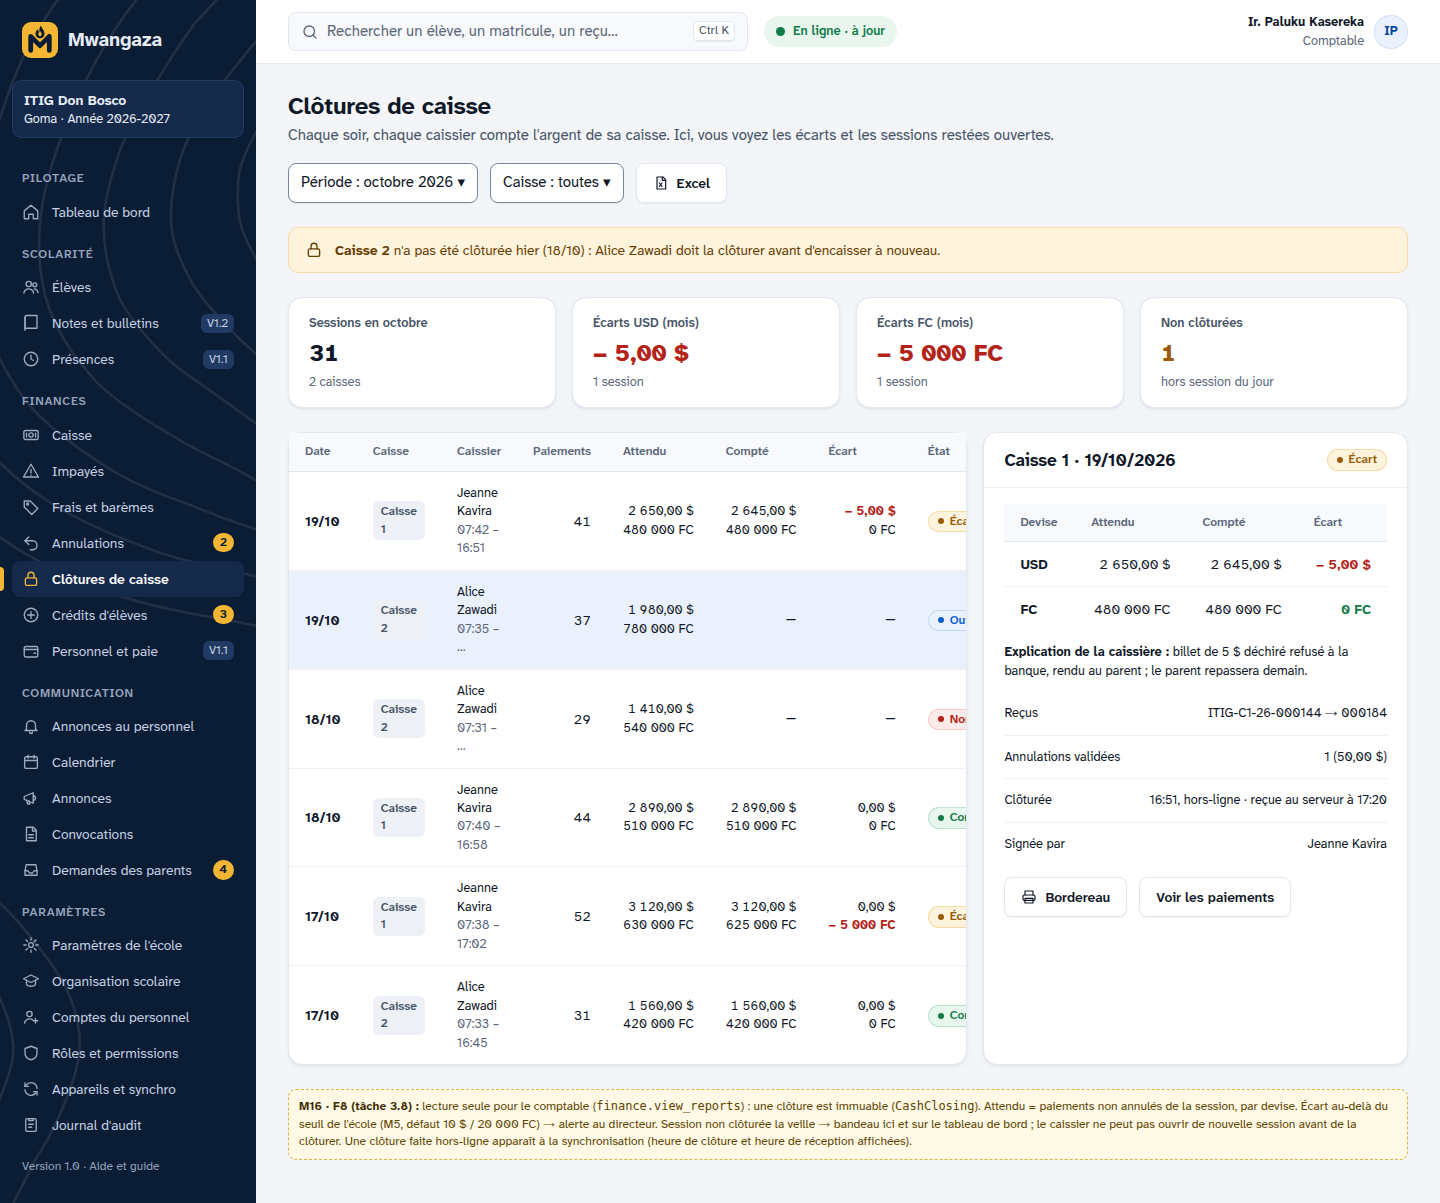
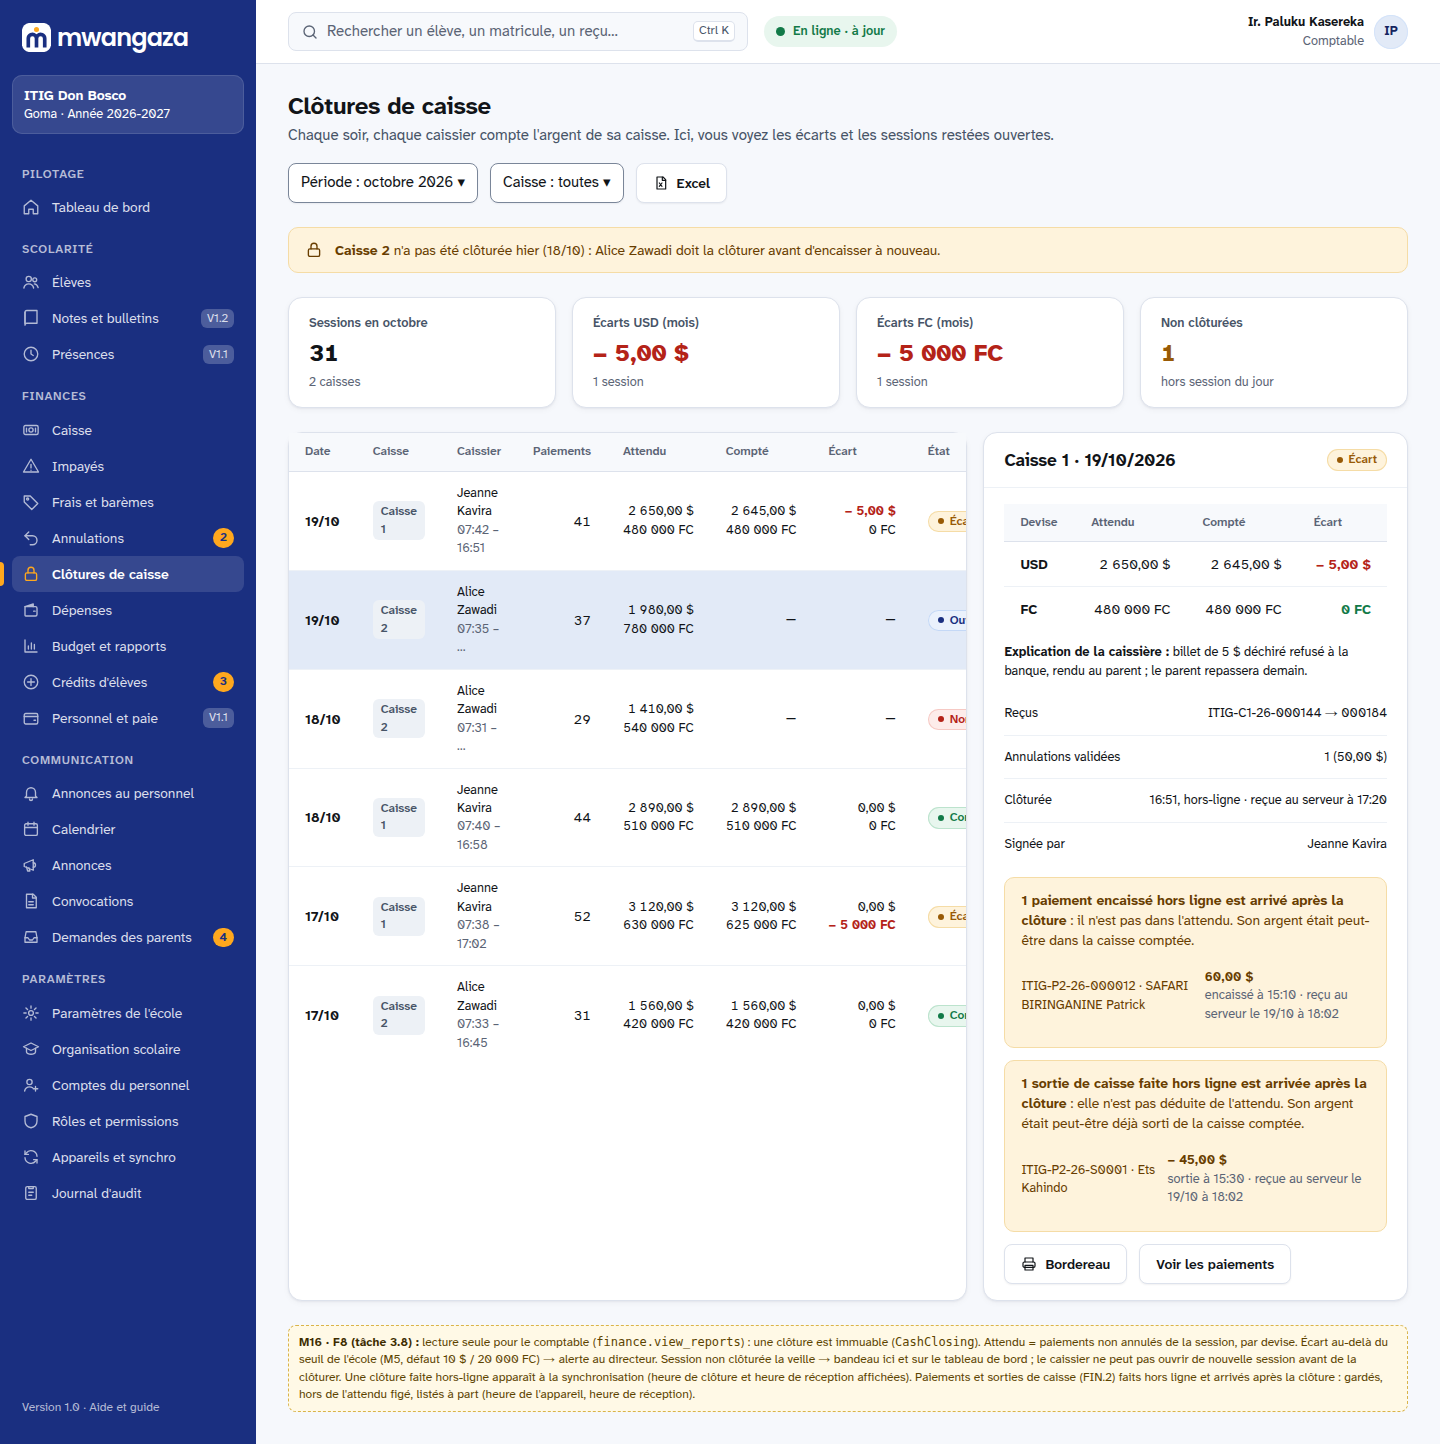
test(finance): parcours réseau coupé avec sortie de caisse ; aide, maquette des clôtures et documents (FIN.2 ②b3)
- Playwright : sortie de 7,50 $ hors ligne après un paiement de 10 $, une seule au serveur, bon de l'appareil, attendu 2,50 $
- maquette clotures-caisse : paiements et sorties arrivés après la clôture
- aide « Sortie de caisse » fr/en, 04 (CashOut hors ligne, types d'opération), suivi

diff --git a/maquettes/gestion/clotures-caisse.html b/maquettes/gestion/clotures-caisse.html
@@ -27,8 +27,10 @@
   <table class="tbl"><tr><th>Devise</th><th class="num">Attendu</th><th class="num">Compté</th><th class="num">Écart</th></tr><tr><td class="b">USD</td><td class="num">2 650,00 $</td><td class="num">2 645,00 $</td><td class="num b" style="color:var(--due)">− 5,00 $</td></tr><tr><td class="b">FC</td><td class="num">480 000 FC</td><td class="num">480 000 FC</td><td class="num b" style="color:var(--ok)">0 FC</td></tr></table>
   <div class="small"><b>Explication de la caissière :</b> billet de 5 $ déchiré refusé à la banque, rendu au parent ; le parent repassera demain.</div>
   <div class="list small"><div><span>Reçus</span><span>ITIG-C1-26-000144 → 000184</span></div><div><span>Annulations validées</span><span>1 (50,00 $)</span></div><div><span>Clôturée</span><span>16:51, hors-ligne · reçue au serveur à 17:20</span></div><div><span>Signée par</span><span>Jeanne Kavira</span></div></div>
+  <div class="banner warn small"><span><b>1 paiement encaissé hors ligne est arrivé après la clôture</b> : il n'est pas dans l'attendu. Son argent était peut-être dans la caisse comptée.<div class="list small" style="margin-top:6px"><div><span>ITIG-P2-26-000012 · SAFARI BIRINGANINE Patrick</span><span><b>60,00 $</b><br><span class="muted">encaissé à 15:10 · reçu au serveur le 19/10 à 18:02</span></span></div></div></span></div>
+  <div class="banner warn small"><span><b>1 sortie de caisse faite hors ligne est arrivée après la clôture</b> : elle n'est pas déduite de l'attendu. Son argent était peut-être déjà sorti de la caisse comptée.<div class="list small" style="margin-top:6px"><div><span>ITIG-P2-26-S0001 · Ets Kahindo</span><span><b>− 45,00 $</b><br><span class="muted">sortie à 15:30 · reçue au serveur le 19/10 à 18:02</span></span></div></div></span></div>
   <div class="row"><a class="btn" href="#"><svg class="ic" width="16" height="16" viewBox="0 0 24 24" fill="none" stroke="currentColor" stroke-width="1.8" stroke-linecap="round" stroke-linejoin="round"><path d="M6 9V3h12v6"/><rect x="3" y="9" width="18" height="8" rx="2"/><path d="M6 14h12v7H6z"/></svg>Bordereau</a><a class="btn" href="caisse-accueil.html">Voir les paiements</a></div>
  </div></div>
 </div>
-<div class="note"><b>M16 · F8 (tâche 3.8) :</b> lecture seule pour le comptable (<code>finance.view_reports</code>) : une clôture est immuable (<code>CashClosing</code>). Attendu = paiements non annulés de la session, par devise. Écart au-delà du seuil de l'école (M5, défaut 10 $ / 20 000 FC) → alerte au directeur. Session non clôturée la veille → bandeau ici et sur le tableau de bord ; le caissier ne peut pas ouvrir de nouvelle session avant de la clôturer. Une clôture faite hors-ligne apparaît à la synchronisation (heure de clôture et heure de réception affichées).</div>
+<div class="note"><b>M16 · F8 (tâche 3.8) :</b> lecture seule pour le comptable (<code>finance.view_reports</code>) : une clôture est immuable (<code>CashClosing</code>). Attendu = paiements non annulés de la session, par devise. Écart au-delà du seuil de l'école (M5, défaut 10 $ / 20 000 FC) → alerte au directeur. Session non clôturée la veille → bandeau ici et sur le tableau de bord ; le caissier ne peut pas ouvrir de nouvelle session avant de la clôturer. Une clôture faite hors-ligne apparaît à la synchronisation (heure de clôture et heure de réception affichées). Paiements et sorties de caisse (FIN.2) faits hors ligne et arrivés après la clôture : gardés, hors de l'attendu figé, listés à part (heure de l'appareil, heure de réception).</div>
 </main></div></div></body></html>

diff --git a/frontend/e2e/hors-ligne.spec.ts b/frontend/e2e/hors-ligne.spec.ts
@@ -1,6 +1,13 @@
 import { expect, test } from "@playwright/test";
 
-import { allowCodeAgain, closeCashSessions, manage, unpaidStudent } from "./django";
+import {
+  allowCodeAgain,
+  cashExpense,
+  cashOutOf,
+  closeCashSessions,
+  manage,
+  unpaidStudent,
+} from "./django";
 import { enterCode, enterPassword, ITIG, skipGuide } from "./helpers";
 
 /** Inscriptions de l'année en cours de l'ITIG : ce que l'instantané descend sur l'appareil. */
@@ -55,12 +62,13 @@ test("appareil mémorisé : l'école descend sur l'appareil, puis hors ligne et 
   await expect(indicator).toHaveText("En ligne · à jour");
 });
 
-test("démarrage sans réseau : code PIN, puis la caisse encaisse sur l'appareil (3.7.1)", async ({
+test("démarrage sans réseau : code PIN, puis la caisse encaisse et paie une dépense sur l'appareil (3.7.1, FIN.2)", async ({
   page,
   context,
 }) => {
   closeCashSessions();
   const student = unpaidStudent();
+  const expense = cashExpense();
   await page.addInitScript(() => {
     window.print = () => undefined;
     navigator.storage.persist = async () => true;
@@ -80,8 +88,13 @@ test("démarrage sans réseau : code PIN, puis la caisse encaisse sur l'appareil
   await page.getByLabel("Confirmer le code PIN").fill("2580");
   await page.getByRole("button", { name: "Enregistrer" }).click();
   await expect(page.getByText("Code PIN enregistré sur cet appareil.")).toBeVisible();
+  // La caisse de l'appareil garde les dépenses à payer dès son ouverture.
+  const payable = page.waitForResponse((response) =>
+    response.url().includes("/api/cash-outs/payable/"),
+  );
   await page.goto(`${ITIG}cash`);
   await expect(page.getByRole("heading", { name: "Ouvrir la caisse" })).toBeVisible();
+  await payable;
 
   // Le serveur ne répond plus (en production, le service worker sert l'application ; ici, Vite).
   // Seulement `/api/…` : les modules de Vite (`packages/api/…`) doivent encore arriver.
@@ -107,9 +120,23 @@ test("démarrage sans réseau : code PIN, puis la caisse encaisse sur l'appareil
   ).toBeVisible();
   await expect(indicator).toHaveText("Hors ligne · 2 en attente");
 
+  // Sortie de caisse sans réseau : la dépense gardée, le bon numéroté par l'appareil.
+  await page.getByRole("link", { name: "Sortie de caisse" }).click();
+  await page.getByLabel("Dépense à payer").selectOption(expense);
+  await page.getByRole("button", { name: "Sortir et imprimer le bon" }).click();
+  await expect(
+    page.getByText(/^Sortie ITIG-DEMO-P\d+-26-S0001 enregistrée : 7,50\s\$\./),
+  ).toBeVisible();
+  await expect(indicator).toHaveText("Hors ligne · 3 en attente");
+  await page.getByRole("link", { name: "Retour à la caisse" }).click();
+
   // Retour du réseau : la session du serveur est toujours là, tout part.
   await page.unrouteAll();
   await context.setOffline(false);
   await expect(indicator).toHaveText("En ligne · à jour", { timeout: 30_000 });
   await expect(page.getByText(/Session ouverte à .* · 1 paiement$/)).toBeVisible();
+  // Une seule sortie, au bon de l'appareil ; la dépense est payée ; 10 $ reçus − 7,50 $ sortis.
+  const [count, number, status, expected] = cashOutOf(expense);
+  expect([count, status, expected]).toEqual(["1", "paid", "250"]);
+  expect(number).toMatch(/^ITIG-DEMO-P\d+-26-S0001$/);
 });

diff --git a/frontend/e2e/django.ts b/frontend/e2e/django.ts
@@ -62,3 +62,42 @@ from apps.schools.models import School
 with use_school(School.objects.get(code="itig-demo")):
     CashSession.objects.filter(closed_at__isnull=True).update(closed_at=timezone.now())`);
 }
+
+/** Une dépense de 7,50 $ à payer en espèces, validée d'office (sous le seuil) : son identifiant. */
+export function cashExpense(): string {
+  const output = manage(
+    "shell",
+    "-c",
+    `from datetime import date
+from apps.accounts.models import User
+from apps.core.tenancy import use_school
+from apps.finance import expenses
+from apps.finance.models import ExpenseCategory
+from apps.schools.models import School
+with use_school(School.objects.get(code="itig-demo")):
+    expense, _ = expenses.record_expense(actor=User.objects.get(phone="+243000001005"),
+        category=ExpenseCategory.objects.order_by("name").first(), beneficiary="Ets Kahindo",
+        reason="Cadenas du magasin", amount_minor=750, currency="USD",
+        spent_on=date.today(), account="cash")
+    print(expense.pk)`,
+  );
+  return output.trim().split("\n").at(-1)!;
+}
+
+/** Sorties de caisse d'une dépense au serveur : nombre, numéro du bon, état de la dépense et
+ *  attendu en dollars de la session, séparés par « | ». */
+export function cashOutOf(expense: string): string[] {
+  const output = manage(
+    "shell",
+    "-c",
+    `from apps.core.tenancy import use_school
+from apps.finance import services
+from apps.finance.models import CashOut, Expense
+from apps.schools.models import School
+with use_school(School.objects.get(code="itig-demo")):
+    outs = list(CashOut.objects.filter(expense_id="${expense}"))
+    usd = [c for c in services.closing_summary(outs[0].cash_session)["currencies"] if c["currency"] == "USD"]
+    print(len(outs), outs[0].number, Expense.objects.get(pk="${expense}").status, usd[0]["expected_minor"], sep="|")`,
+  );
+  return output.trim().split("\n").at(-1)!.split("|");
+}

diff --git a/docs/04-modele-de-donnees.md b/docs/04-modele-de-donnees.md
@@ -122,7 +122,7 @@ Règles :
 
 **Dépenses (FIN.1, `finance/expenses.py`)** — **`ExpenseCategory`** [T] (nom unique par école, activable) ; **`Expense`** [T] (`number` `DEP-AA-0001` par année, catégorie, bénéficiaire, motif, `amount_minor` + `currency`, `spent_on`, `account` `cash` / `bank` / `mobile_money`, `status` `pending` / `approved` / `paid` / `rejected`, justificatif privé photo ré-encodée ou PDF de 5 Mo au plus, demandeur, décideur) ; **`ExpenseCancellation`** [T] [I] (une par dépense, motif, auteur, déclencheur en base). Une dépense ne s'efface jamais (`delete()` refusé) et ni son montant ni sa devise ne changent. Seuil de validation par devise dans `School.settings["expenses"]` (défaut 200,00 $ / 500 000 FC, « au-dessus » seulement, jamais converti) ; quelqu'un ne valide pas sa propre dépense. Banque et Mobile Money : payée dès la validation ; espèces : payée par la sortie de caisse (FIN.2). Pas de taux de change : les totaux sont par devise (FIN.3).
 
-**Sorties de caisse (FIN.2, `finance/cash_outs.py`)** — **`CashOut`** [T] [I] (`expense`, `cash_session`, `number` du bon `ITIG-C1-26-S0007` : école, caisse, année scolaire, suite ; `amount_minor` + `currency` copiés de la dépense, jamais convertis ; `received_by` (qui reçoit l'argent), `paid_at`, `device` si faite hors ligne) ; **`CashOutCancellation`** [T] [I] (une par sortie, motif, auteur ; déclencheurs en base pour les deux). Seule une dépense validée en espèces, pas annulée, sort de la caisse, depuis la session ouverte de son caissier (`finance.collect_payment`), et seulement si la session a reçu assez dans cette devise (pas de fond de caisse) ; elle passe alors à `paid`. Annuler (`finance.cancel_expense`) : seulement tant que la session est ouverte, la dépense redevient `approved` ; une dépense sortie de la caisse ne s'annule pas elle-même.
+**Sorties de caisse (FIN.2, `finance/cash_outs.py`)** — **`CashOut`** [T] [I] (`expense`, `cash_session`, `number` du bon `ITIG-C1-26-S0007` : école, caisse, année scolaire, suite ; `amount_minor` + `currency` copiés de la dépense, jamais convertis ; `received_by` (qui reçoit l'argent), `paid_at`, `device` si faite hors ligne) ; **`CashOutCancellation`** [T] [I] (une par sortie, motif, auteur ; déclencheurs en base pour les deux). Seule une dépense validée en espèces, pas annulée, sort de la caisse, depuis la session ouverte de son caissier (`finance.collect_payment`), et seulement si la session a reçu assez dans cette devise (pas de fond de caisse) ; elle passe alors à `paid`. Annuler (`finance.cancel_expense`) : seulement tant que la session est ouverte, la dépense redevient `approved` ; une dépense sortie de la caisse ne s'annule pas elle-même. **Hors ligne** (opération `cash_out.create`, appareil mémorisé, avec ou sans réseau) : bon numéroté par l'appareil `ITIG-P1-26-S0003` (préfixe de l'appareil, séquence de l'appareil rendue à l'instantané), jamais refusée pour l'argent de la caisse (l'attendu peut passer sous zéro), une session clôturée depuis, ni une dépense payée ou annulée entre-temps : l'argent est parti, l'écart est noté au journal (`conflict`) ; arrivée après la clôture, elle est hors de l'attendu figé et listée à part au comptable (`late_cash_outs`).
 
 **Reprise en cours d'année (E6, 4.19)** — pas de modèle : un `Payment` avec `origin=prior` (`cash` pour un encaissement), **sans `cash_session`** (contrainte en base : l'un ne va pas sans l'autre), `cashier` = le compte qui a importé le fichier, `paid_at` = le moment de la reprise, `receipt_number` = sa référence dans la série `{ÉCOLE}-RP-{AA}-{séquence}` (code `RP` réservé comme `AN` : jamais celui d'une caisse). Il compte dans les soldes, le relevé, les impayés et le Portail comme tout paiement ; il n'entre ni dans une session, ni dans une clôture, ni dans « encaissé » du tableau de bord, et n'a pas de reçu (lecture, réimpression, PDF du portail et vérification publique : 404). Une ligne du fichier = un élève (matricule), un montant dans la devise de ses frais (pas de conversion), un frais facultatif ; répartition par défaut de la caisse ; refusée si elle dépasse ce que doit l'élève, ou si l'élève a déjà une reprise non annulée dans cette devise (un fichier envoyé deux fois ne double rien). Corrigée par l'annulation habituelle. Permission `finance.import_prior_payments`, une entrée au journal par paiement (`finance.prior_payment_recorded`).
 
@@ -177,7 +177,7 @@ Règles :
 
 ## 6. Synchronisation
 
-**SyncOperation [T]** — `op_id` (unique dans l'école), `device`, `type` (`payment.create`, `cash_session.open`, `payment.reprint`, `credit.use`, `cancellation.request` ; clôture en 3.8.2), `payload`, `status` (`applied`, `rejected`), `result` (résultat ou erreur, rendu tel quel au second envoi), `created_at` (arrivée). Appliquée : effacée après 90 jours, chaque nuit (A.2) ; refusée : gardée.
+**SyncOperation [T]** — `op_id` (unique dans l'école), `device`, `type` (`payment.create`, `cash_session.open`, `cash_session.close`, `payment.reprint`, `credit.use`, `cancellation.request`, `cash_out.create` (FIN.2), `grades.save`), `payload`, `status` (`applied`, `rejected`), `result` (résultat ou erreur, rendu tel quel au second envoi), `created_at` (arrivée). Appliquée : effacée après 90 jours, chaque nuit (A.2) ; refusée : gardée.
 
 **ChangeLog [T]** — une ligne par entité, sa dernière modification : `seq` (croissant par école, donné à la lecture sous verrou, jamais repris), `pending` (changement en attente de son numéro), `entity_type` (`enrollment` : élève, classe, frais dus, paiements de l'année ; `config` : école, reçus, année, classes, types de frais, caisses, taux), `entity_id`, `operation` (`upsert`, `delete`), `updated_at` (heure du changement). Écrit par signaux Django, et explicitement après une écriture en masse (`apps/sync/changes.py`).
 

diff --git a/docs/claude/plans/lot-7.md b/docs/claude/plans/lot-7.md
@@ -7,7 +7,7 @@
 - [x] ②a FIN.1 écran « Dépenses » (liste, filtres, saisie avec justificatif, validation, annulation, seuil et catégories, article d'aide) — à regarder à 390/1440 px avant la PR
 - [x] ②b1 FIN.2 serveur : payer une dépense en espèces depuis une `CashSession`, clôture et bordereau qui la déduisent, audit, tests (argent, isolation) — **Opus**
 - [x] ②b2 FIN.2 écrans en ligne : sortie de caisse, bon de sortie imprimé, ligne « sorties » dans la clôture — Sonnet
-- [ ] ②b3 FIN.2 hors ligne : sortie en file d'attente, synchro idempotente, Playwright réseau coupé — **Opus**
+- [x] ②b3 FIN.2 hors ligne : sortie en file d'attente, synchro idempotente, Playwright réseau coupé — **Opus**
 - [ ] ③ HL.1 (inscription hors ligne, doublons signalés, Playwright réseau coupé)
 - [ ] ④ FIN.3 (budget, réalisé/prévu, entrées/sorties, comptes, Excel) ; PERF.7 ; OPS.5 ; fin du lot (docs, vérification, PR)
 
@@ -18,7 +18,8 @@
 - Budget : une ligne par catégorie, année et devise ; rapports calculés en SQL (agrégats), pas d'objets par ligne.
 - Export Excel : pas de nouvelle dépendance sans demander (vérifier ce qui est déjà installé).
 - Rien de SYSCOHADA (V2) ; paie (lot 12) alimentera les dépenses plus tard.
-- Sortie (②b1) : `finance.collect_payment` + session ouverte, jamais plus que ce que la session a reçu dans la devise (pas de fond de caisse : à valider) ; annuler : `finance.cancel_expense`, session ouverte ; attendu < 0 possible (hors ligne). Démo : sortie de 45 $, deux à payer. Reste : sorties tardives et `closingOnDevice` (②b3) ; `reference.md`, `07` § 4, `03` (fin du lot).
+- Sortie (②b1) : `finance.collect_payment` + session ouverte, jamais plus que ce que la session a reçu dans la devise (pas de fond de caisse : à valider) ; annuler : `finance.cancel_expense`, session ouverte ; attendu < 0 possible (hors ligne). Démo : sortie de 45 $, deux à payer. Reste : `reference.md`, `07` § 4, `03` (fin du lot).
+- Hors ligne (②b3) : sur un appareil mémorisé, toujours par la file (comme l'encaissement), bon `…-P1-26-S0001` de l'appareil ; dépense payée ou annulée entre-temps : gardée (l'argent est parti), `conflict` au journal, **pas de notification** (cas rare, à valider) ; sorties faites ailleurs dans la même session pas vues par la clôture de l'appareil (le serveur recalcule).
 
 ## Hors périmètre
 Comptabilité complète, rapprochement bancaire, paiement en ligne.

diff --git a/backend/apps/core/help/fr/gestion/cash-out.md b/backend/apps/core/help/fr/gestion/cash-out.md
@@ -22,4 +22,4 @@ updated: 2026-11-05
 
 **Je me suis trompé de dépense.** Tant que la caisse est ouverte, un responsable peut annuler la sortie : l'argent revient dans la caisse et la dépense redevient à payer.
 
-**Puis-je le faire sans réseau ?** Pas encore : une sortie demande le réseau.
+**Puis-je le faire sans réseau ?** Oui, sur un appareil mémorisé : la sortie et son bon sont faits sur l'appareil (bon numéroté par l'appareil, par exemple `…-P1-26-S0001`) et envoyés au retour du réseau, comme un paiement. La liste des dépenses à payer est celle lue à la dernière ouverture de la caisse avec le réseau. Sur un ordinateur en ligne seulement, la sortie demande le réseau.

diff --git a/backend/apps/core/help/en/gestion/cash-out.md b/backend/apps/core/help/en/gestion/cash-out.md
@@ -22,4 +22,4 @@ updated: 2026-11-05
 
 **I picked the wrong expense.** While the register is open, a manager can cancel the cash out: the money goes back into the register and the expense becomes payable again.
 
-**Can I do it offline?** Not yet: a cash out needs the network.
+**Can I do it offline?** Yes, on a remembered device: the cash-out and its slip are made on the device (slip numbered by the device, for example `…-P1-26-S0001`) and sent when the network is back, like a payment. The list of expenses to pay is the one read the last time the cash desk was opened with the network. On an online-only computer, a cash out needs the network.
